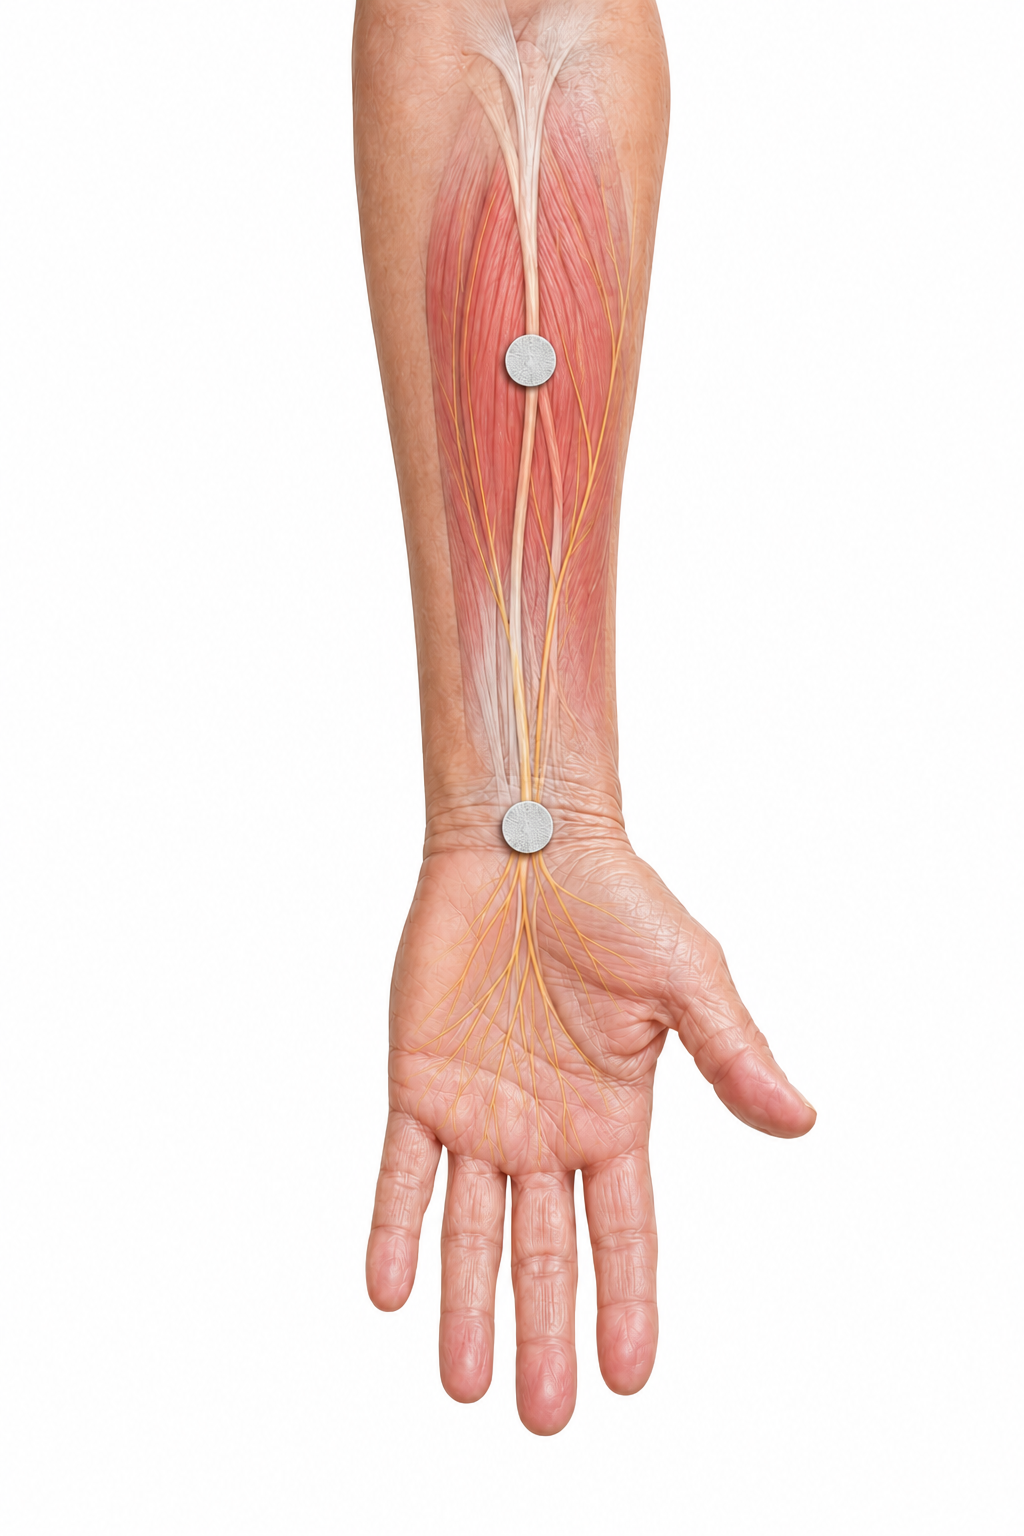
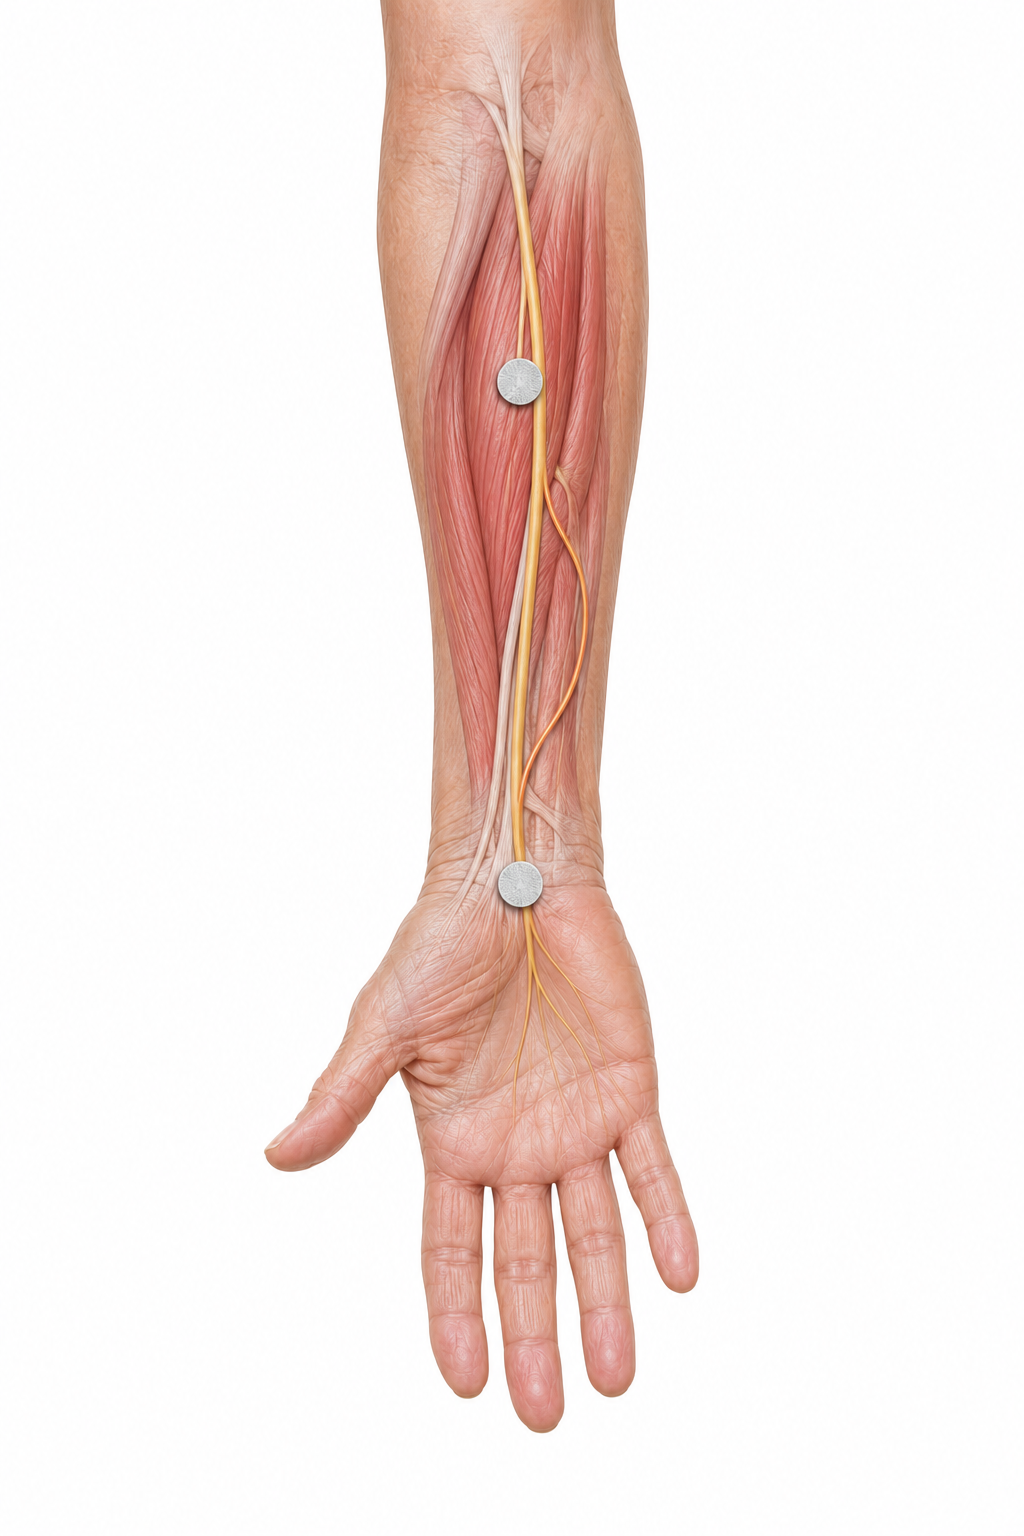
Update electrode image, remove old filename, update references

Changed region(s): [[0.25, 0.0, 0.8125, 0.9375]]

diff --git a/docs/References.md b/docs/References.md
@@ -4,8 +4,8 @@
 
 ## Main inspiration
 
+- [OpenVstim](https://github.com/MonzurulAlam/OpenVstim) Kudos to Monzurul Alam, your project was extremely helpful!
 - [DIY Transcutaneous Spinal Stimulator Guide](https://www.scribd.com/document/766706842/An-easy-to-build-transcutaneous-electrical-stimulator-for-spinal-cord-stimulation-therapy)
-- [OpenVstim](https://github.com/MonzurulAlam/OpenVstim)
 
 ## Medical Sources
 